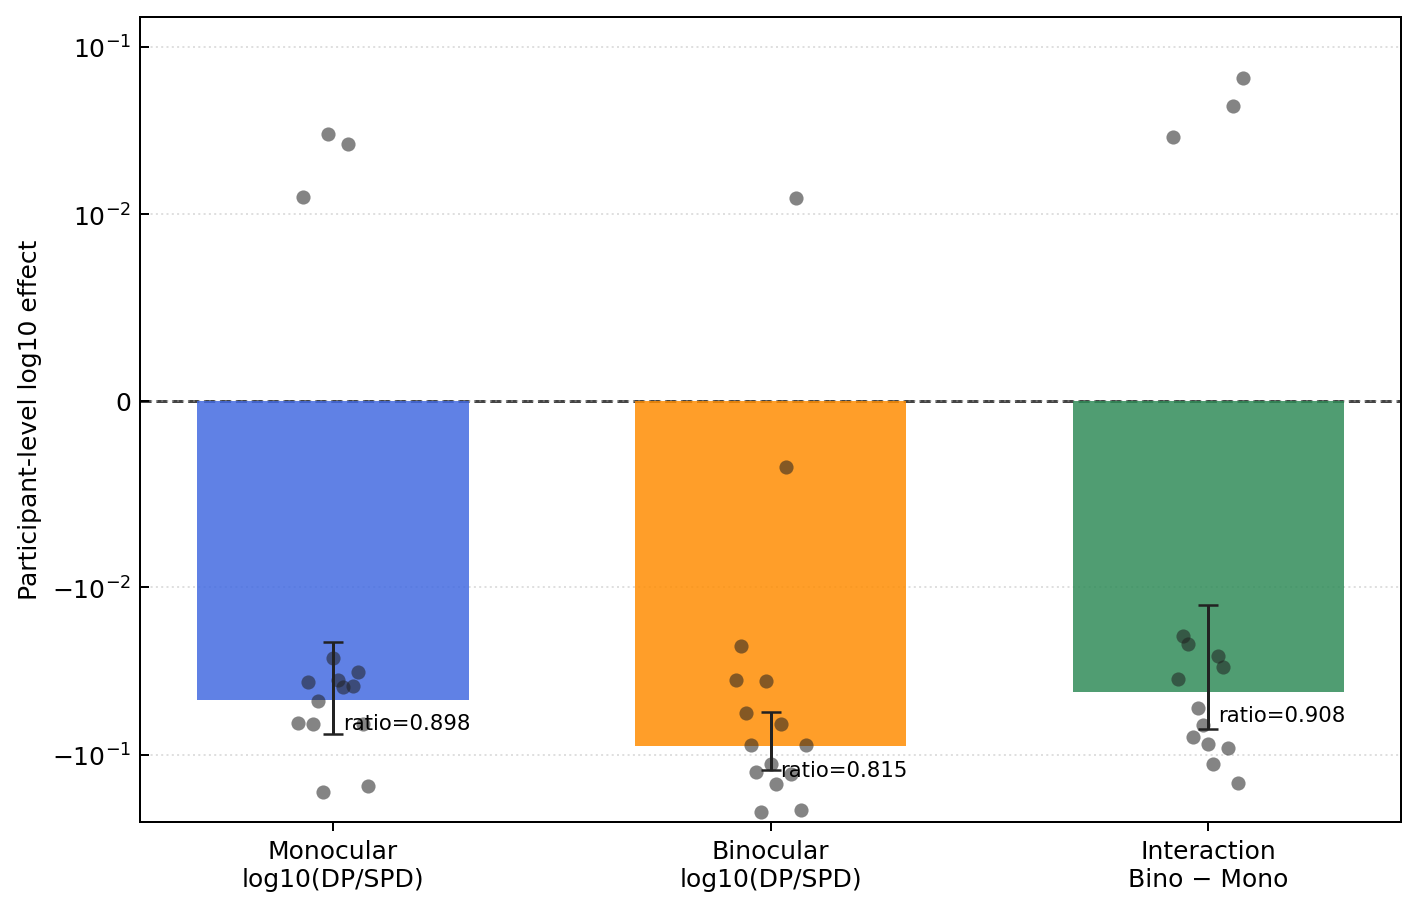
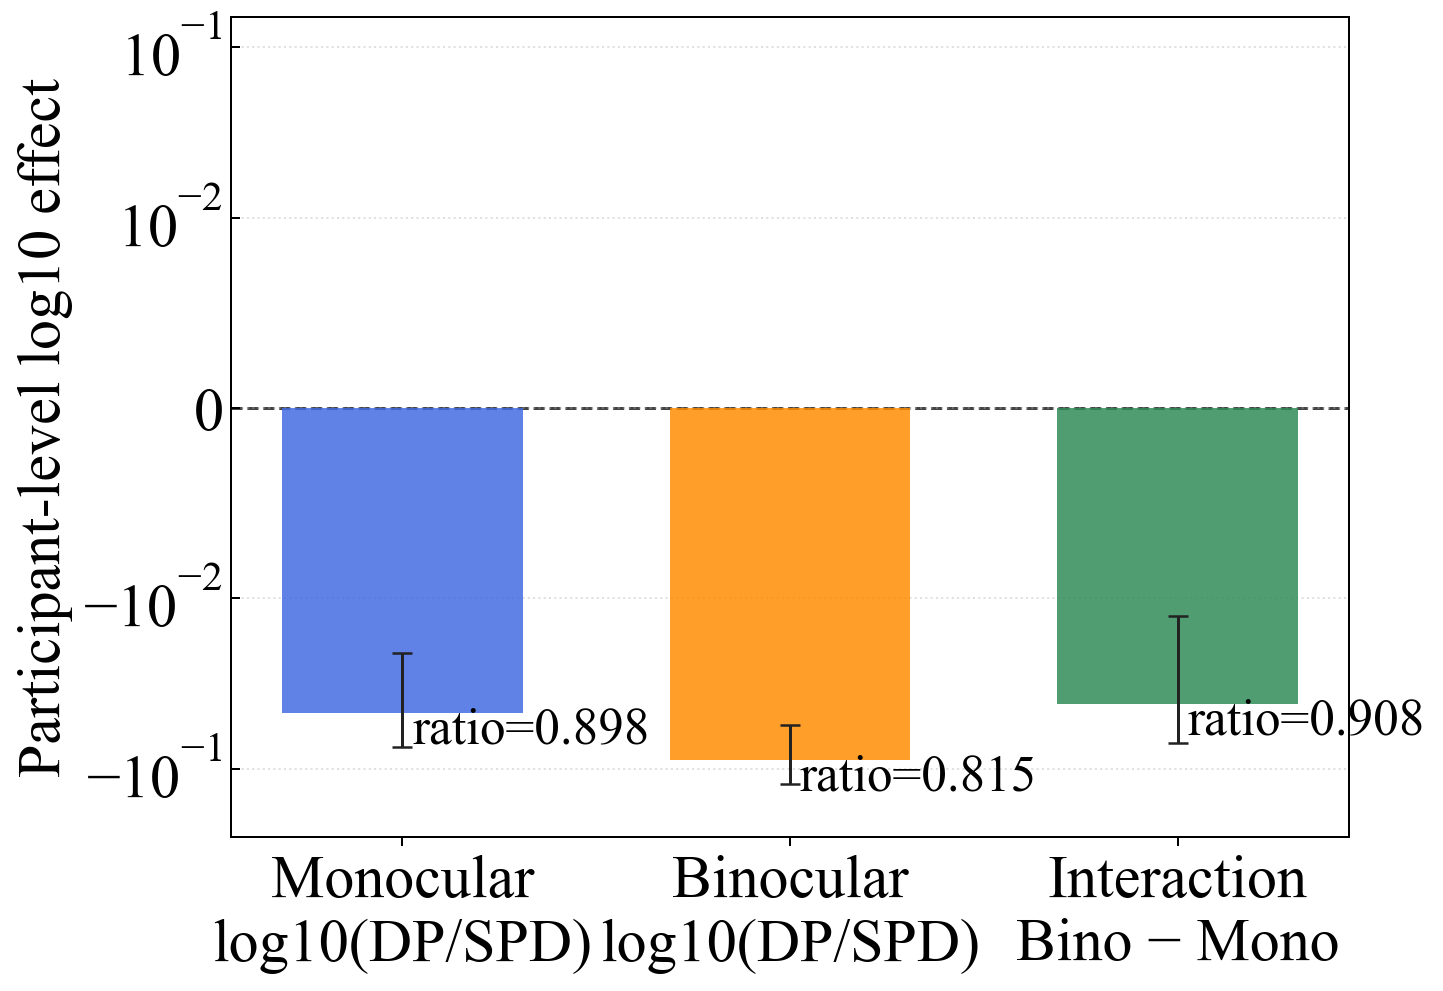
feat: 研究会用グラフプロットを変更

diff --git a/src/experiment/main_analyze/figures.py b/src/experiment/main_analyze/figures.py
@@ -373,29 +373,114 @@ def _save_with_title_variants(
     *,
     dpi: int,
 ) -> list[Path]:
-    """従来の図と、タイトルのみを非表示にした_no_title版を保存する。"""
+    """従来版と、点なし・文字サイズ2.4倍・利用可能な指定フォントの_no_title版を保存する。"""
+    import textwrap
+
+    from matplotlib import font_manager
+    from matplotlib.collections import PathCollection
+    from matplotlib.text import Text
+
+    # 実行環境に存在するフォントだけを選び、暗黙の代替フォントを防ぐ。
+    selected_font = None
+    for candidate in ("Times New Roman", "Arial", "Helvetica", "Times"):
+        try:
+            font_manager.findfont(candidate, fallback_to_default=False)
+        except ValueError:
+            continue
+        selected_font = candidate
+        break
+    if selected_font is None:
+        raise RuntimeError(
+            "Times New Roman / Arial / Helvetica / Timesのいずれかをインストールしてください。"
+            "Symbolは本文・数字用のフォントとして使用しません。"
+        )
+
     output_path = Path(output_path)
     save_options = dict(dpi=dpi, bbox_inches="tight", facecolor="white")
-    # 従来版を先に保存し、既存のファイル名・描画内容を維持する。
+    # タイトルあり版は、点・文字サイズとも従来どおり保存する。
     figure.savefig(output_path, **save_options)
     no_title_path = output_path.with_name(
         f"{output_path.stem}_no_title{output_path.suffix}"
     )
-    # 中央・左・右のAxesタイトルと、Figure全体のタイトルを対象にする。
-    title_artists = []
+    # 描画を確定し、目盛り・軸ラベル・凡例・注記を含む全Textを取得する。
+    figure.canvas.draw()
+    text_sizes = [(text, text.get_fontsize()) for text in figure.findobj(Text)]
+    text_families = [(text, text.get_fontfamily()) for text, _ in text_sizes]
+    hidden_artists = []
     for axis in figure.axes:
-        title_artists.extend([axis.title, axis._left_title, axis._right_title])
+        hidden_artists.extend([axis.title, axis._left_title, axis._right_title])
+        # scatterだけを非表示にする。errorbarのLineCollectionは保持する。
+        # 個別・training図の試行点も_no_title版では非表示にする。
+        hidden_artists.extend(
+            collection for collection in axis.collections
+            if isinstance(collection, PathCollection)
+        )
     if figure._suptitle is not None:
-        title_artists.append(figure._suptitle)
-    visibility = [(artist, artist.get_visible()) for artist in title_artists]
+        hidden_artists.append(figure._suptitle)
+    # 平均・標準偏差の数値注記だけを隠す（棒の高さやCIは維持）。
+    for axis in figure.axes:
+        hidden_artists.extend(
+            text for text in axis.texts
+            if text.get_text().startswith("m=") and "\nd=" in text.get_text()
+        )
+    # タイトルなし版では0.6〜0.9の縦軸数字だけを隠す。目盛線・グリッドは保持する。
+    for axis in figure.axes:
+        for tick in axis.yaxis.get_major_ticks() + axis.yaxis.get_minor_ticks():
+            if any(abs(float(tick.get_loc()) - value) < 1e-8 for value in (0.6, 0.7, 0.8, 0.9)):
+                hidden_artists.extend([tick.label1, tick.label2])
+    ylabel_texts = [(axis.yaxis.label, axis.yaxis.label.get_text()) for axis in figure.axes]
+    visibility = [(artist, artist.get_visible()) for artist in hidden_artists]
+    original_positions = [
+        (axis, axis.get_position(original=True).frozen(), axis.get_position().frozen())
+        for axis in figure.axes
+    ]
+    original_subplotpars = {
+        key: getattr(figure.subplotpars, key)
+        for key in ("left", "bottom", "right", "top", "wspace", "hspace")
+    }
     try:
         for artist, _ in visibility:
             artist.set_visible(False)
-        # 座標・棒・エラーバー・注記・凡例はそのままにする。
+        for text, size in text_sizes:
+            text.set_fontsize(size * 2.4)
+            text.set_fontfamily([selected_font])
+        # 文字拡大に合わせて余白を再計算する。棒とCIの値は変更しない。
+        figure.tight_layout()
+        # 縦向きの軸名がプロットの高さを超えたら、文字サイズを保って改行する。
+        # bbox_inches="tight"と余白再計算により、左端の切れも防ぐ。
+        for axis in figure.axes:
+            label = axis.yaxis.label
+            original_label = label.get_text()
+            prefix, bracket, suffix = original_label.partition("(")
+            if bracket:
+                original_label = prefix.rstrip() + "\n(" + suffix
+                label.set_text(original_label)
+                figure.tight_layout()
+            # 長い場合の追加折り返しでも、括弧直前の改行は維持する。
+            for width in range(max(len(line) for line in original_label.split("\n")), 7, -1):
+                figure.canvas.draw()
+                renderer = figure.canvas.get_renderer()
+                if label.get_window_extent(renderer).height <= axis.get_window_extent(renderer).height * 0.95:
+                    break
+                label.set_text("\n".join(
+                    "\n".join(textwrap.wrap(line, width=width))
+                    for line in original_label.split("\n")
+                ))
+                figure.tight_layout()
         figure.savefig(no_title_path, **save_options)
     finally:
+        for text, family in text_families:
+            text.set_fontfamily(family)
+        for label, original_text in ylabel_texts:
+            label.set_text(original_text)
+        for text, size in text_sizes:
+            text.set_fontsize(size)
         for artist, was_visible in visibility:
             artist.set_visible(was_visible)
+        figure.subplotpars.update(**original_subplotpars)
+        for axis, original, active in original_positions:
+            axis.set_position(original, which="original")
+            axis.set_position(active, which="active")
     return [output_path, no_title_path]
 
 
